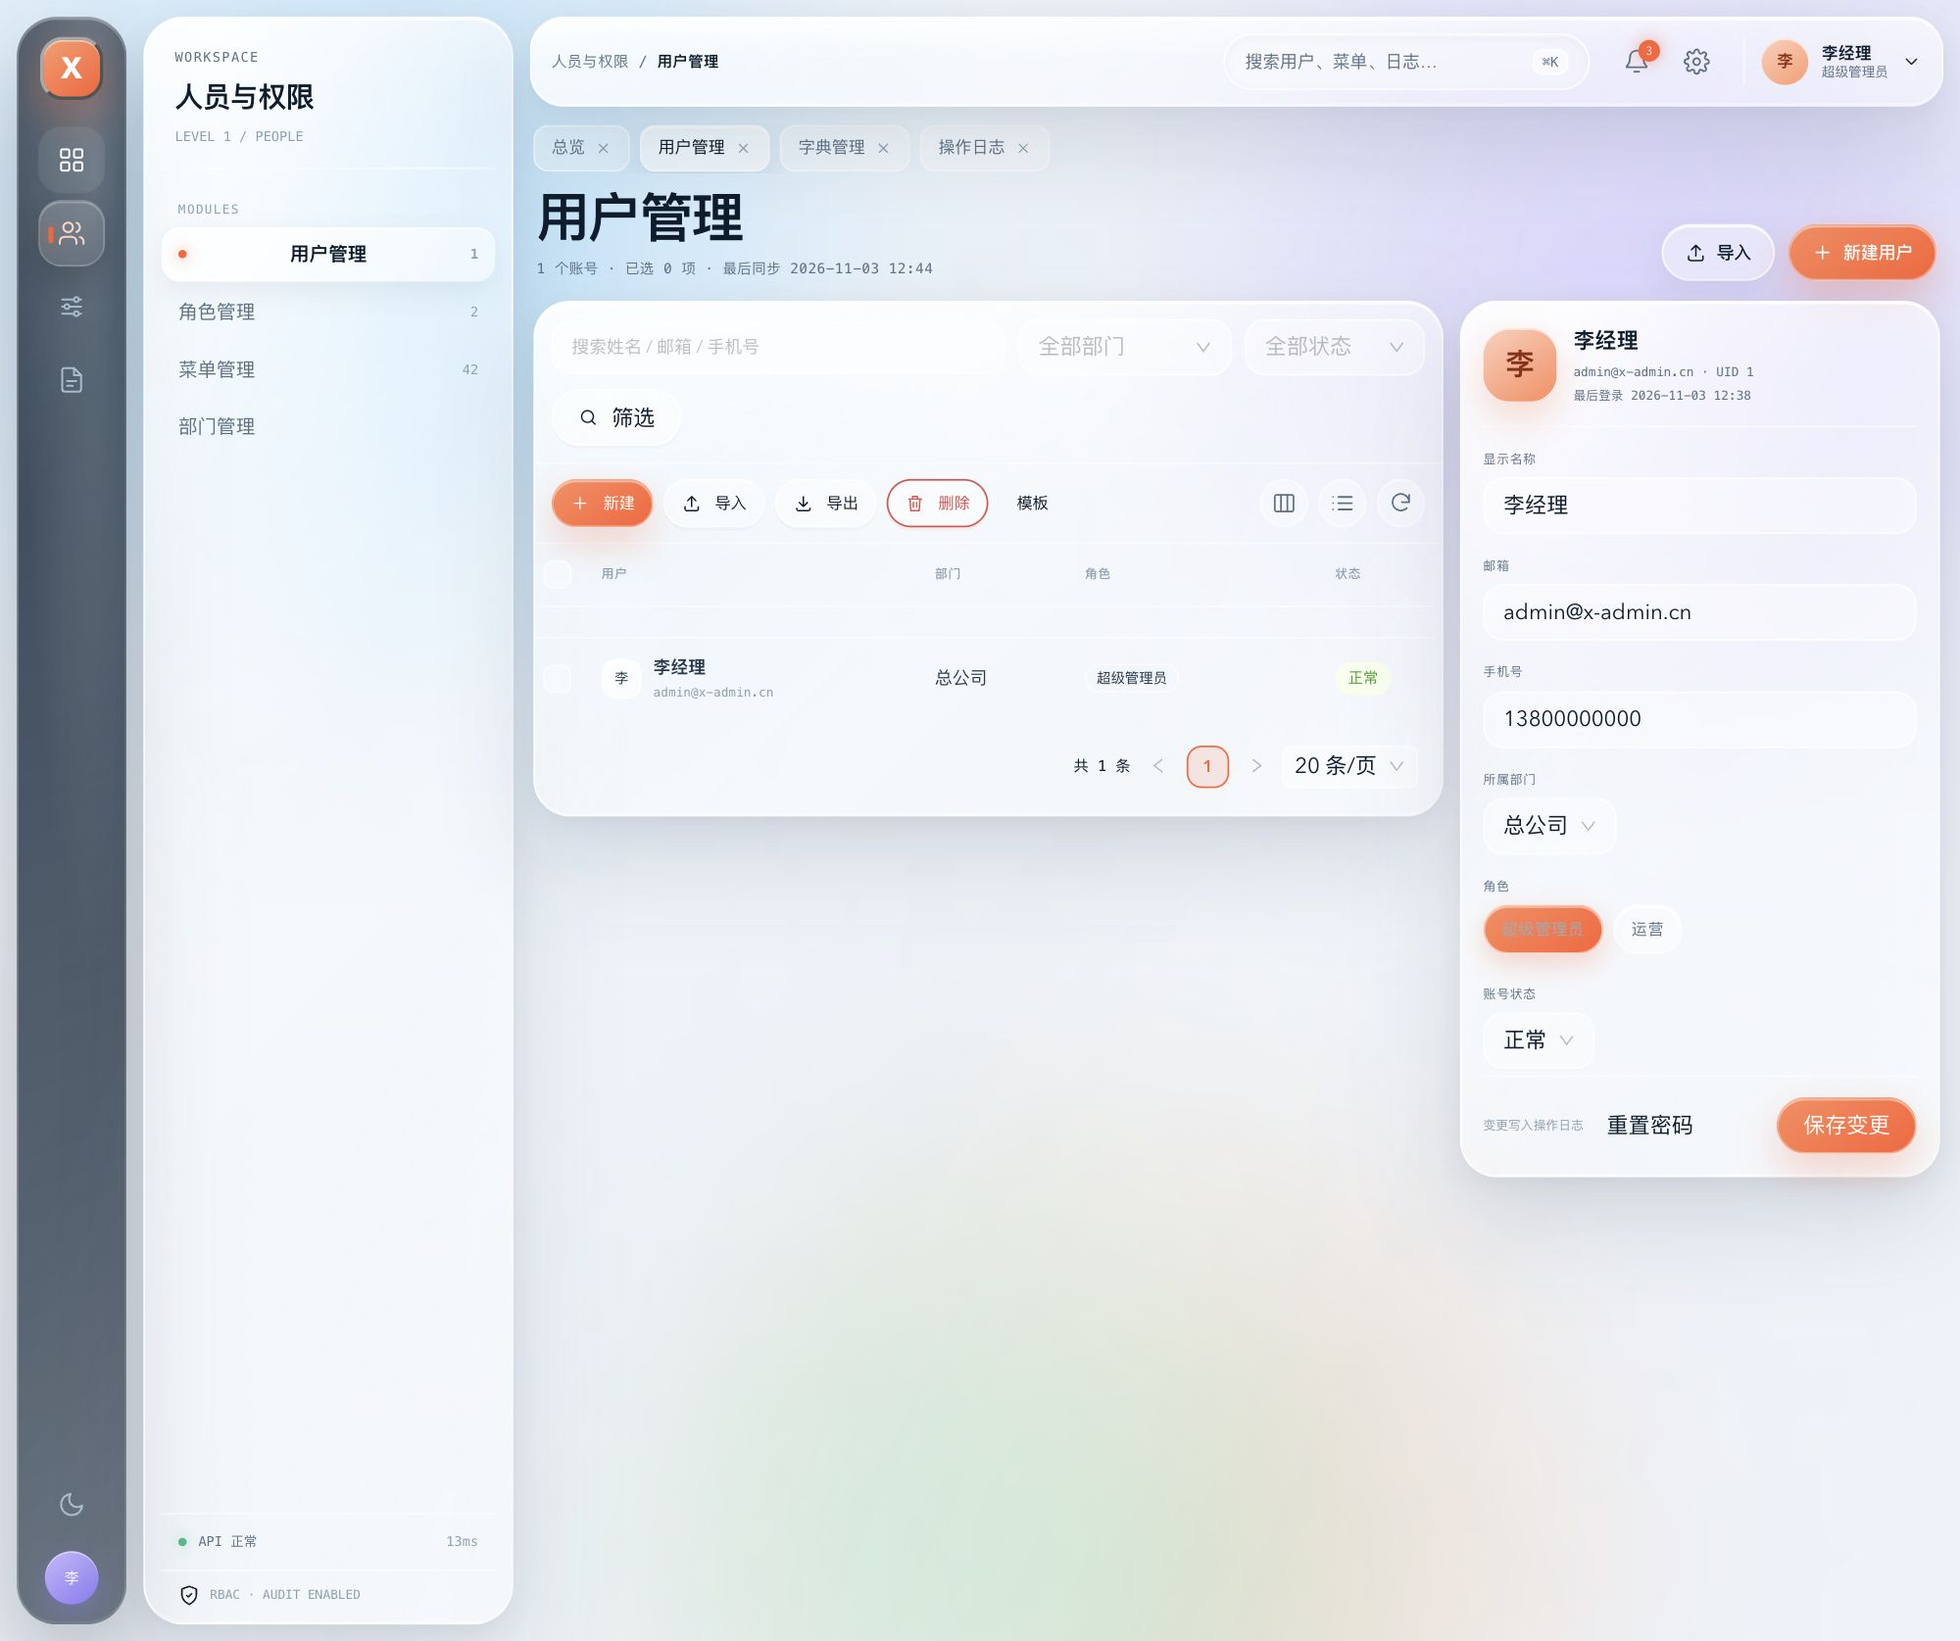
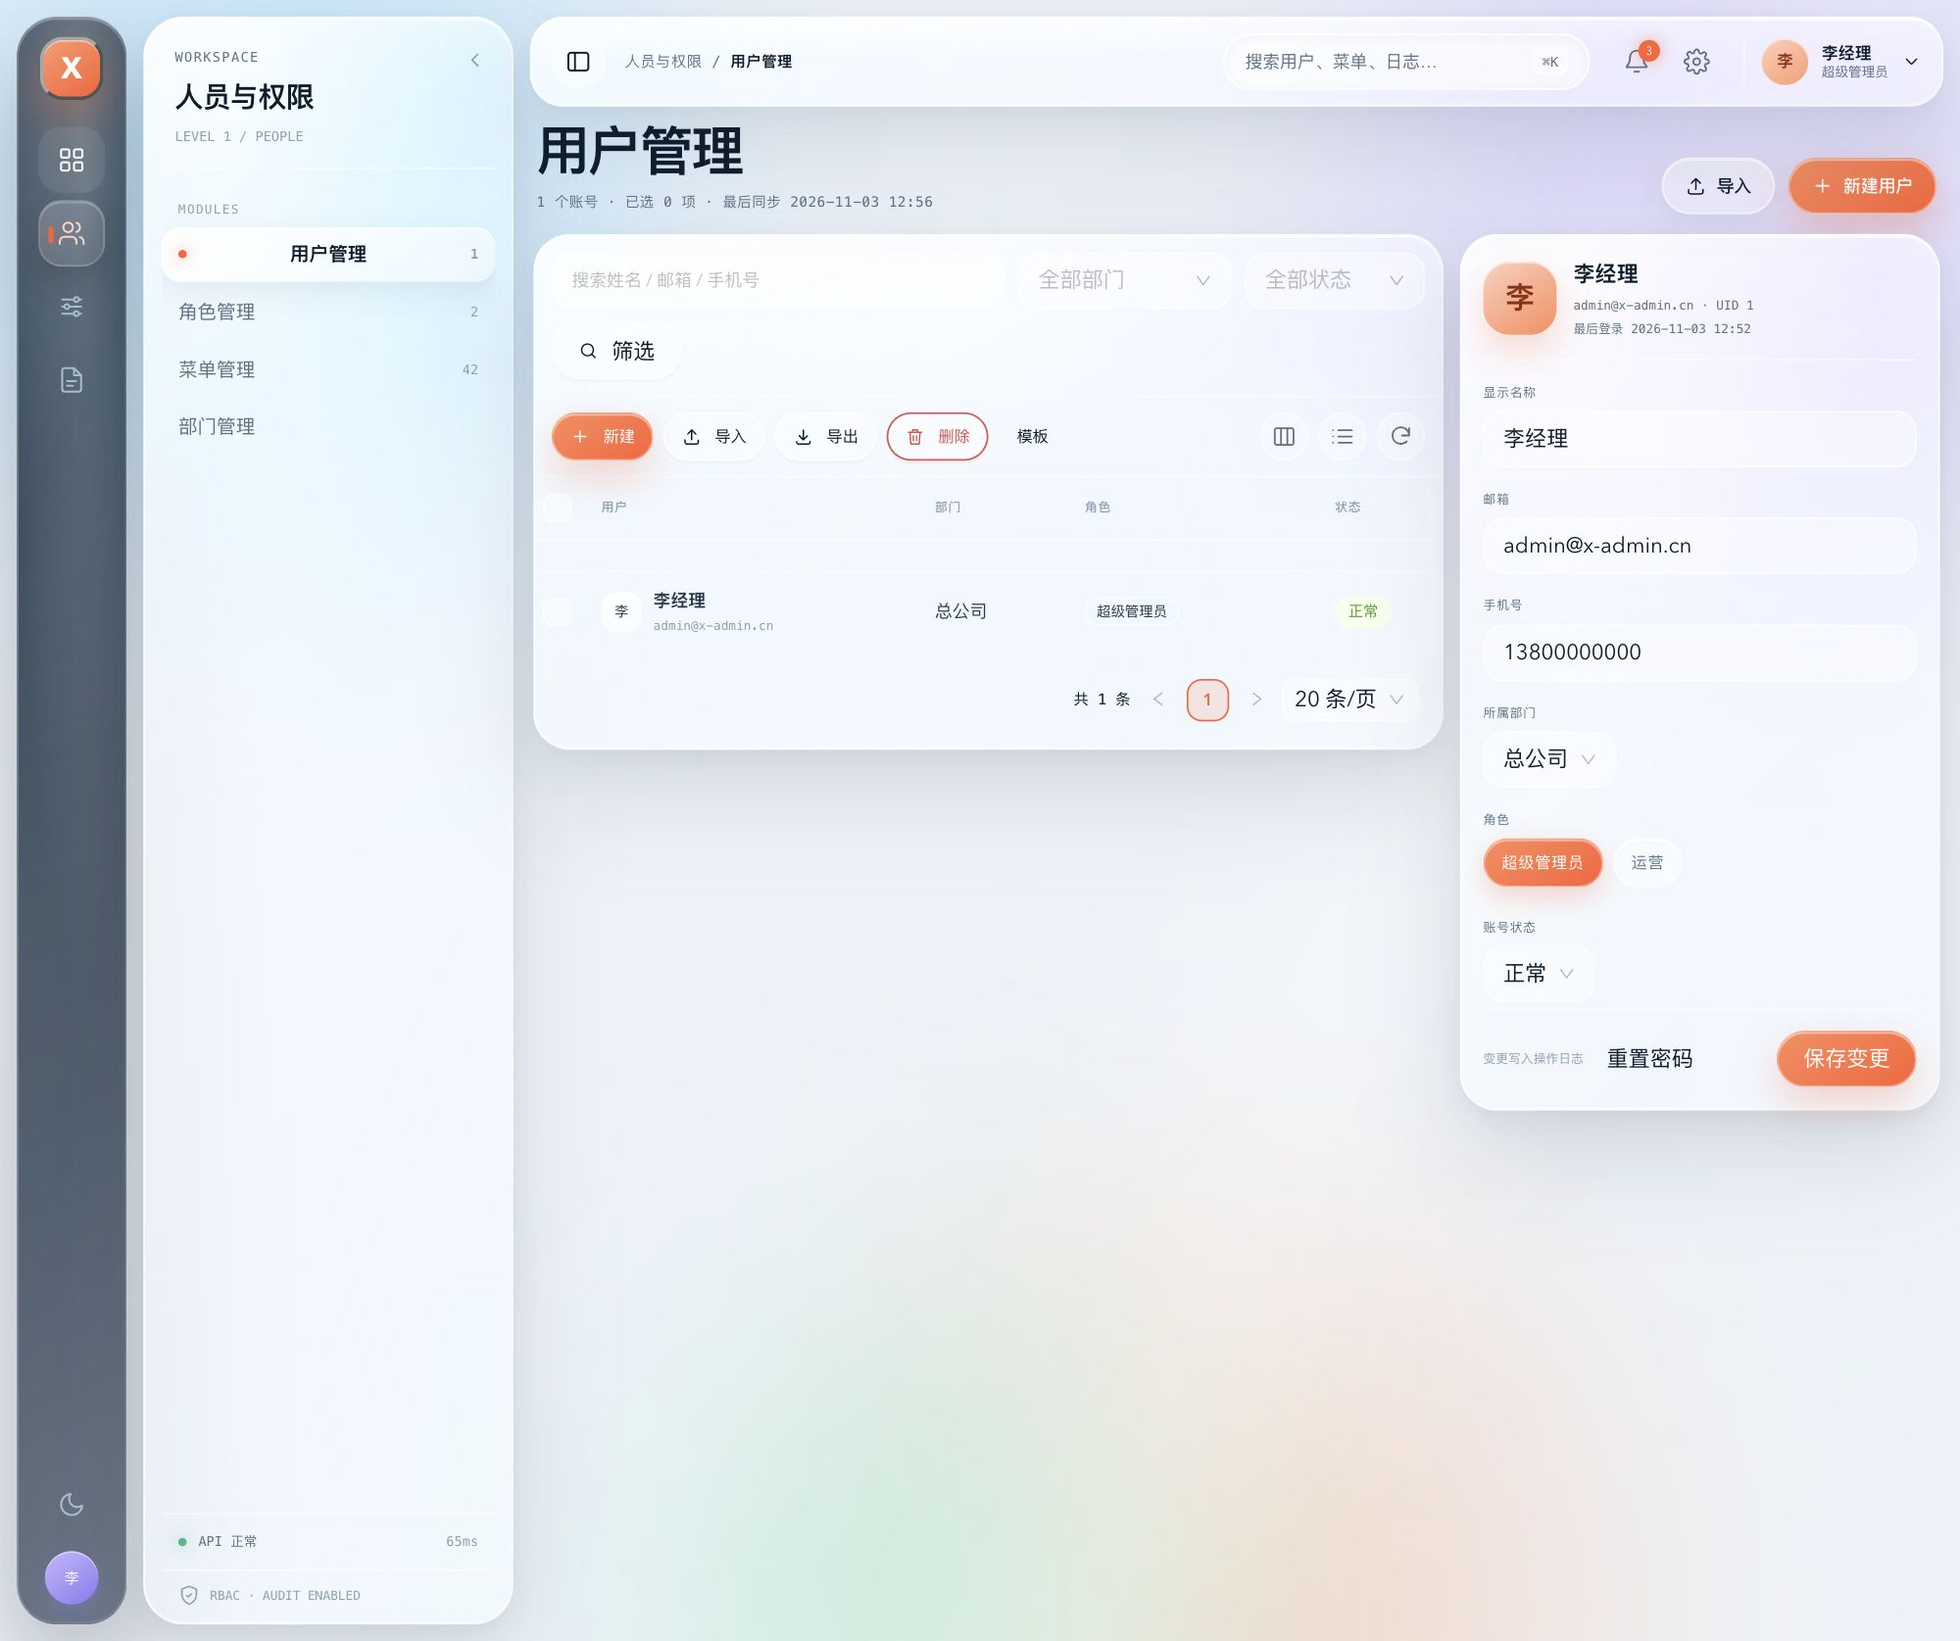
feat(ui): auto-collapse single-page context nav with motion transitions

diff --git a/frontend/src/components/layout/ContextBar.tsx b/frontend/src/components/layout/ContextBar.tsx
@@ -1,19 +1,19 @@
 import { useQuery } from '@tanstack/react-query'
-import { useLocation, useNavigate } from 'react-router-dom'
-import { itemsOfGroup, navByPath, profileNav, railGroups } from '../../config/nav'
+import { AnimatePresence, motion, useReducedMotion } from 'motion/react'
+import { useNavigate } from 'react-router-dom'
 import { api, isMock } from '../../api/client'
 import type { DashboardSummary } from '../../api/types'
+import { railGroups } from '../../config/nav'
 import { useAuth } from '../../stores/auth'
 import { Icon } from '../Icon'
+import { useContextNav } from './useContextNav'
 
 export function ContextBar() {
   const navigate = useNavigate()
-  const location = useLocation()
   const can = useAuth((state) => state.can)
-  const activeItem = navByPath(location.pathname)
+  const reduceMotion = useReducedMotion()
+  const { active: activeItem, items, open, toggle, isAccount } = useContextNav()
   const moduleMeta = railGroups.find((module) => module.group === activeItem.group)
-  const isAccount = activeItem.group === '账号'
-  const items = isAccount ? [profileNav] : itemsOfGroup(activeItem.group).filter((item) => can(item.permission))
   const title = isAccount ? '个人中心' : activeItem.group
   const subtitle = isAccount
     ? 'WORKSPACE / ACCOUNT'
@@ -24,7 +24,7 @@ export function ContextBar() {
   const summary = useQuery({
     queryKey: ['dashboard-summary'],
     queryFn: () => api.get<DashboardSummary>('/dashboard/summary'),
-    enabled: can('dashboard:view'),
+    enabled: open && can('dashboard:view'),
     staleTime: 60_000,
   })
 
@@ -37,8 +37,9 @@ export function ContextBar() {
       if (!res.ok) throw new Error('unhealthy')
       return Math.round(performance.now() - start)
     },
+    enabled: open,
     retry: false,
-    refetchInterval: 30_000,
+    refetchInterval: open ? 30_000 : false,
   })
 
   const counts: Record<string, string> = {
@@ -50,39 +51,63 @@ export function ContextBar() {
     jobs: summary.data ? String(summary.data.jobs) : '',
   }
 
+  const transition = reduceMotion
+    ? { duration: 0 }
+    : { type: 'tween' as const, duration: 0.34, ease: [0.22, 0.8, 0.28, 1] as const }
+
   return (
-    <aside className="context glass">
-      <div className="ctx-head">
-        <div className="ctx-kicker">Workspace</div>
-        <strong>{title}</strong>
-        <span className="ctx-sub">{subtitle}</span>
-      </div>
-      <nav className="ctx-nav">
-        <div className="ctx-label">{activeItem.group === '工作台' ? 'OVERVIEW' : 'MODULES'}</div>
-        {items.map((item) => (
-          <a
-            key={item.key}
-            href={item.path}
-            className={`ctx-item ${activeItem.key === item.key ? 'active' : ''}`}
-            onClick={(event) => {
-              event.preventDefault()
-              navigate(item.path)
-            }}
-          >
-            <span>{item.label}</span>
-            <span className="count">{counts[item.key] ?? ''}</span>
-          </a>
-        ))}
-      </nav>
-      <div className="ctx-foot">
-        <span className={`dot ${health.isError ? 'bad' : ''}`} />
-        {health.isError ? 'API 异常' : isMock() ? 'Mock 正常' : 'API 正常'}
-        <span className="lat">{health.isError ? '--' : `${health.data ?? 42}ms`}</span>
-      </div>
-      <div style={{ display: 'flex', gap: 6, padding: '8px 10px 0', borderTop: '1px solid var(--line)', marginTop: 8 }}>
-        <Icon name="shield" size={13} />
-        <span style={{ fontFamily: 'var(--mono)', fontSize: 7.5, color: 'var(--dim)' }}>RBAC · AUDIT ENABLED</span>
-      </div>
-    </aside>
+    <AnimatePresence initial={false}>
+      {open && (
+        <motion.aside
+          key="context"
+          aria-label={`${title}二级导航`}
+          className="context glass"
+          initial={{ width: 0, paddingLeft: 0, paddingRight: 0, opacity: 0, x: -14, marginRight: -10 }}
+          animate={{ width: 222, paddingLeft: 10, paddingRight: 10, opacity: 1, x: 0, marginRight: 0 }}
+          exit={{ width: 0, paddingLeft: 0, paddingRight: 0, opacity: 0, x: -14, marginRight: -10 }}
+          transition={transition}
+        >
+          <div className="ctx-inner">
+            <div className="ctx-head">
+              <div className="ctx-kicker">Workspace</div>
+              <strong>{title}</strong>
+              <span className="ctx-sub">{subtitle}</span>
+              <button type="button" className="ctx-collapse" onClick={toggle} title="收起二级导航" aria-label="收起二级导航">
+                <Icon name="chevronLeft" size={14} />
+              </button>
+            </div>
+            <nav className="ctx-nav">
+              <div className="ctx-label">{activeItem.group === '工作台' ? 'OVERVIEW' : 'MODULES'}</div>
+              {items.map((item, index) => (
+                <motion.a
+                  key={`${activeItem.group}-${item.key}`}
+                  href={item.path}
+                  className={`ctx-item ${activeItem.key === item.key ? 'active' : ''}`}
+                  initial={reduceMotion ? false : { opacity: 0, x: -8 }}
+                  animate={{ opacity: 1, x: 0 }}
+                  transition={{ duration: 0.22, delay: index * 0.045, ease: [0.22, 0.8, 0.28, 1] }}
+                  onClick={(event) => {
+                    event.preventDefault()
+                    navigate(item.path)
+                  }}
+                >
+                  <span>{item.label}</span>
+                  <span className="count">{counts[item.key] ?? ''}</span>
+                </motion.a>
+              ))}
+            </nav>
+            <div className="ctx-foot">
+              <span className={`dot ${health.isError ? 'bad' : ''}`} />
+              {health.isError ? 'API 异常' : isMock() ? 'Mock 正常' : 'API 正常'}
+              <span className="lat">{health.isError ? '--' : `${health.data ?? 42}ms`}</span>
+            </div>
+            <div className="ctx-note">
+              <Icon name="shield" size={13} />
+              <span>RBAC · AUDIT ENABLED</span>
+            </div>
+          </div>
+        </motion.aside>
+      )}
+    </AnimatePresence>
   )
 }

diff --git a/frontend/src/components/layout/CommandBar.tsx b/frontend/src/components/layout/CommandBar.tsx
@@ -1,17 +1,17 @@
 import { useEffect, useMemo, useState } from 'react'
 import { Drawer, Dropdown, Input, Modal, Popover, Segmented, Switch } from 'antd'
 import type { MenuProps } from 'antd'
-import { useLocation, useNavigate } from 'react-router-dom'
-import { navByPath, navItems } from '../../config/nav'
+import { useNavigate } from 'react-router-dom'
+import { navItems } from '../../config/nav'
 import { useAuth } from '../../stores/auth'
 import { useTabs } from '../../stores/tabs'
 import { useUi } from '../../stores/ui'
 import { Icon } from '../Icon'
+import { useContextNav } from './useContextNav'
 
 export function CommandBar() {
   const navigate = useNavigate()
-  const location = useLocation()
-  const active = navByPath(location.pathname)
+  const { active, items: contextItems, open: contextOpen, toggle: toggleContext } = useContextNav()
   const user = useAuth((state) => state.user)
   const logout = useAuth((state) => state.logout)
   const resetTabs = useTabs((state) => state.reset)
@@ -114,6 +114,18 @@ export function CommandBar() {
         <button type="button" className="icon-btn mobile-nav-btn" onClick={() => setMobileNav(true)} aria-label="导航">
           <Icon name="menu" size={16} />
         </button>
+        {contextItems.length > 0 && (
+          <button
+            type="button"
+            className={`icon-btn ctx-toggle ${contextOpen ? 'on' : ''}`}
+            onClick={toggleContext}
+            title={contextOpen ? '收起二级导航' : '展开二级导航'}
+            aria-label={contextOpen ? '收起二级导航' : '展开二级导航'}
+            aria-expanded={contextOpen}
+          >
+            <Icon name="panel" size={16} />
+          </button>
+        )}
         <div className="crumb">
           {active.group} / <b>{active.label}</b>
         </div>

diff --git a/frontend/src/styles/global.css b/frontend/src/styles/global.css
@@ -379,11 +379,46 @@ button {
   position: sticky;
   top: 10px;
   height: calc(100vh - 20px);
+  overflow: hidden;
+  will-change: width, opacity;
+}
+.ctx-inner {
+  width: 200px;
+  flex: 1;
+  min-height: 0;
+  display: flex;
+  flex-direction: column;
   overflow-y: auto;
+  overflow-x: hidden;
+  scrollbar-width: none;
+}
+.ctx-inner::-webkit-scrollbar {
+  display: none;
 }
 .ctx-head {
-  padding: 4px 8px 12px;
+  position: relative;
+  padding: 4px 30px 12px 8px;
   border-bottom: 1px solid var(--line);
+}
+.ctx-collapse {
+  position: absolute;
+  top: 0;
+  right: 2px;
+  width: 24px;
+  height: 24px;
+  display: grid;
+  place-items: center;
+  border: 1px solid transparent;
+  border-radius: 8px;
+  background: transparent;
+  color: var(--dim);
+  cursor: pointer;
+  transition: background 0.18s, color 0.18s, border-color 0.18s;
+}
+.ctx-collapse:hover {
+  background: var(--glass-soft);
+  border-color: var(--line);
+  color: var(--ink);
 }
 .ctx-kicker {
   font-family: var(--mono);
@@ -484,6 +519,17 @@ button {
   margin-left: auto;
   color: var(--dim);
 }
+.ctx-note {
+  display: flex;
+  align-items: center;
+  gap: 6px;
+  padding: 8px 10px 0;
+  border-top: 1px solid var(--line);
+  margin-top: 8px;
+  font-family: var(--mono);
+  font-size: 7.5px;
+  color: var(--dim);
+}
 
 .canvas {
   flex: 1;
@@ -577,6 +623,14 @@ button {
 }
 .icon-btn.mobile-nav-btn {
   display: none;
+}
+.icon-btn.ctx-toggle {
+  color: var(--dim);
+}
+.icon-btn.ctx-toggle.on {
+  color: var(--ink);
+  background: var(--glass-soft);
+  border-color: var(--line);
 }
 .icon-btn:hover {
   background: var(--glass-soft);
@@ -1876,6 +1930,9 @@ button {
     grid-template-columns: 1fr;
   }
   .context {
+    display: none;
+  }
+  .icon-btn.ctx-toggle {
     display: none;
   }
   .login-stage {

diff --git a/frontend/src/stores/ui.ts b/frontend/src/stores/ui.ts
@@ -4,18 +4,25 @@ import { persist } from 'zustand/middleware'
 export type ThemeMode = 'light' | 'dark'
 export type Density = 'small' | 'middle' | 'large'
 
+export interface ContextPref {
+  group: string
+  open: boolean
+}
+
 interface UiState {
   theme: ThemeMode
   density: Density
   mock: boolean
   watermark: boolean
   columns: Record<string, string[]>
+  contextPref: ContextPref | null
   setTheme: (theme: ThemeMode) => void
   toggleTheme: () => void
   setDensity: (density: Density) => void
   setMock: (mock: boolean) => void
   toggleWatermark: () => void
   setColumns: (key: string, columns: string[]) => void
+  setContextPref: (group: string, open: boolean) => void
 }
 
 export const useUi = create<UiState>()(
@@ -26,6 +33,7 @@ export const useUi = create<UiState>()(
       mock: localStorage.getItem('x-admin.mock') === '1',
       watermark: false,
       columns: {},
+      contextPref: null,
       setTheme: (theme) => set({ theme }),
       toggleTheme: () => set({ theme: get().theme === 'light' ? 'dark' : 'light' }),
       setDensity: (density) => set({ density }),
@@ -35,6 +43,7 @@ export const useUi = create<UiState>()(
       },
       toggleWatermark: () => set({ watermark: !get().watermark }),
       setColumns: (key, columns) => set({ columns: { ...get().columns, [key]: columns } }),
+      setContextPref: (group, open) => set({ contextPref: { group, open } }),
     }),
     {
       name: 'x-admin.ui',

diff --git a/frontend/src/components/layout/useContextNav.ts b/frontend/src/components/layout/useContextNav.ts
@@ -1,0 +1,33 @@
+import { useCallback } from 'react'
+import { useLocation } from 'react-router-dom'
+import { itemsOfGroup, navByPath, profileNav, type NavItem } from '../../config/nav'
+import { useAuth } from '../../stores/auth'
+import { useUi } from '../../stores/ui'
+
+/**
+ * Second-level navigation for the module selected in the rail.
+ *
+ * Auto behaviour: a module with zero or one page does not need a second-level
+ * panel, so it stays collapsed and the canvas gets the full width. A module
+ * with several pages opens automatically. The collapse button stores a manual
+ * preference per module; switching modules resets it to the automatic rule.
+ */
+export function useContextNav() {
+  const location = useLocation()
+  const can = useAuth((state) => state.can)
+  const preference = useUi((state) => state.contextPref)
+  const setContextPref = useUi((state) => state.setContextPref)
+
+  const active = navByPath(location.pathname)
+  const isAccount = active.group === '账号'
+  const items: NavItem[] = isAccount
+    ? [profileNav]
+    : itemsOfGroup(active.group).filter((item) => can(item.permission))
+  const open = preference?.group === active.group ? preference.open : items.length > 1
+  const toggle = useCallback(
+    () => setContextPref(active.group, !open),
+    [active.group, open, setContextPref],
+  )
+
+  return { active, items, open, toggle, isAccount }
+}

diff --git a/frontend/src/components/Icon.tsx b/frontend/src/components/Icon.tsx
@@ -122,6 +122,13 @@ const paths: Record<string, ReactNode> = {
   list: <path d="M8 6h13M8 12h13M8 18h13M3 6h.01M3 12h.01M3 18h.01" />,
   chevronDown: <path d="m6 9 6 6 6-6" />,
   chevronRight: <path d="m9 6 6 6-6 6" />,
+  chevronLeft: <path d="m15 6-6 6 6 6" />,
+  panel: (
+    <>
+      <rect x="3" y="4" width="18" height="16" rx="2.5" />
+      <path d="M9 4v16" />
+    </>
+  ),
   x: <path d="M6 6l12 12M18 6 6 18" />,
   check: <path d="m5 12 4 4L19 6" />,
   arrowRight: <path d="M5 12h14M13 6l6 6-6 6" />,

diff --git a/README.md b/README.md
@@ -71,7 +71,7 @@ design-preview/            三套视觉样张（02 已选定）
 - 定时任务：robfig/cron，启停、立即执行、最近结果
 - 操作日志 / 登录日志：分页、删除、清空
 - 个人中心：资料、密码
-- 前端：多标签页、暗色模式、列设置、密度、全局水印、Mock 开关、⌘K 导航
+- 前端：一级图标轨 / 二级上下文栏（单页模块自动收起并播放 motion 动画）、多标签页、暗色模式、列设置、密度、全局水印、Mock 开关、⌘K 导航
 
 ## 测试
 
@@ -147,6 +147,7 @@ make lint               # go vet + oxlint
 
 视觉样张保留在 `design-preview/`，实现以 `frontend/src/styles/global.css` 为准：
 
+- 两级导航：左侧图标轨是一级模块，右侧上下文栏只显示当前模块的二级页面；模块只有 0/1 个页面时自动收起，把 222px 让给内容区，展开/收起由 `motion` 驱动
 - 背景 `#edf3f9` / 深色 `#07131f`
 - ink `#0b1c2c`、accent `#ff5f33`、violet `#8b7cf6`、cyan `#2fb8d9`、mint `#2fb98a`
 - 字体 Avenir Next / SF Pro Display / PingFang SC；数字 tabular-nums
